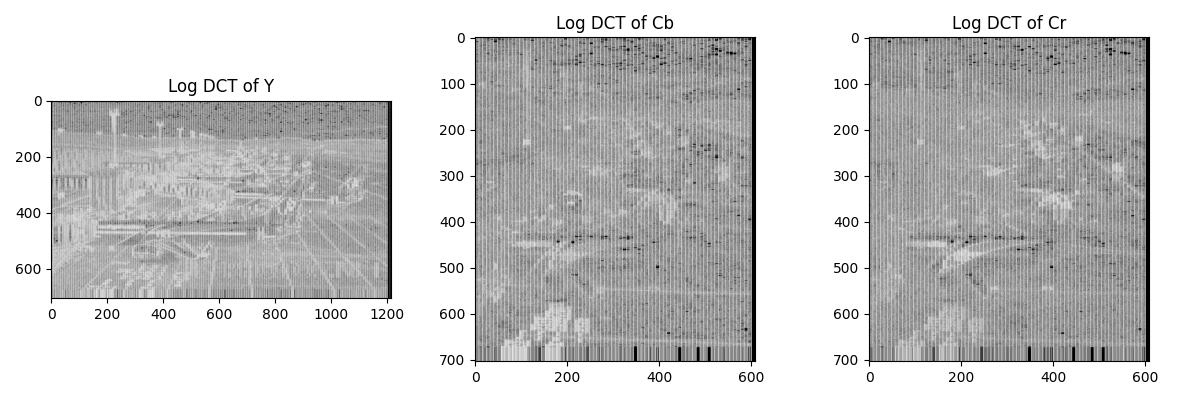
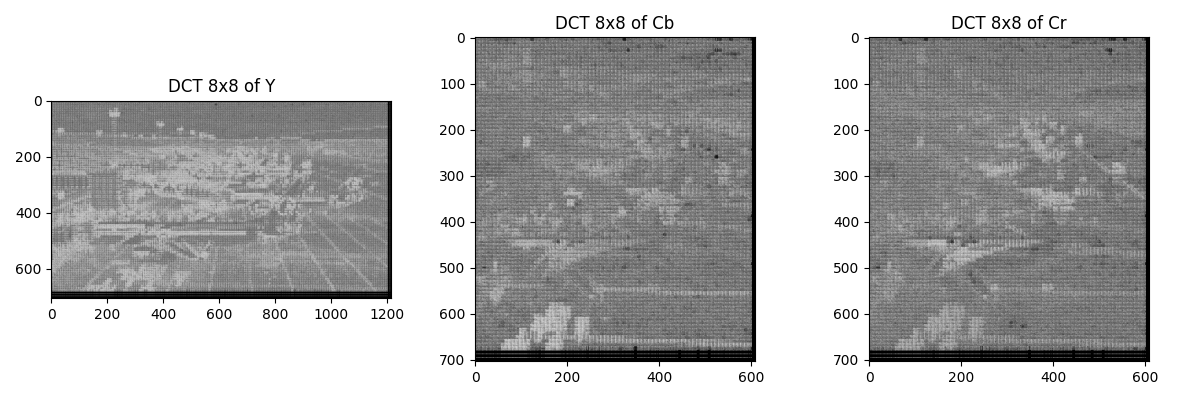
até o 8 tá tiudo

diff --git a/main.py b/main.py
@@ -471,7 +471,7 @@ def quantized_dct(Y_dct, Cb_dct, Cr_dct,quant_matrix_Y,quant_matrix_CbCr,step,fq
   plt.tight_layout()
   plt.show()
 
-  return Y_dct_log, Cb_dct_log, Cr_dct_log
+  return Y_dct, Cb_dct, Cr_dct
 
   #8.2. Crie também a função inversa.
 
@@ -480,11 +480,67 @@ def quantized_dct(Y_dct, Cb_dct, Cr_dct,quant_matrix_Y,quant_matrix_CbCr,step,fq
   qualidade. Visualize as imagens obtidas.
   '''
 
-def dequantize_block(quantized_block, quant_matrix): #AINDA ESTÁ MAL, TENHO DE FAZER UNS TRUQUES POR CAUSA DE ARREDONDAMENTOS
+def dequantize_block(quantized_block, fq,Lum_quant_matrix_std,Cro_quant_matrix_std,Crominancia = False,Luminancia = False):
 
-  dequantized_block = quantized_block * quant_matrix
+  Qs_Cro, Qs_Lum = adj_quant_matrix(fq,Lum_quant_matrix_std,Cro_quant_matrix_std)
+
+  if Crominancia==True:
+     dequantized_block = quantized_block * Qs_Cro
+  
+  elif Luminancia == True:
+     dequantized_block = quantized_block * Qs_Lum
+     
   return dequantized_block
 
+def dequantized_dct(Y_dct_quant, Cb_dct_quant, Cr_dct_quant,quant_matrix_Y,quant_matrix_CbCr,step, fq):
+
+    lines_Y, cols_Y = Y_dct_quant.shape
+    lines_Cb, cols_Cb = Cb_dct_quant.shape
+    lines_Cr, cols_Cr = Cr_dct_quant.shape
+
+    canal_Y_dct_desquantizado = np.zeros_like(Y_dct_quant)
+
+    canal_Cb_dct_desquantizado = np.zeros_like(Cb_dct_quant)
+
+    canal_Cr_dct_desquantizado = np.zeros_like(Cr_dct_quant)
+
+    # Process Y channel
+    for i in range(0, lines_Y, step):
+        for j in range(0, cols_Y, step):
+            quant_dct_block = Y_dct_quant[i:i+step, j:j+step]
+            canal_Y_dct_desquantizado[i:i+step, j:j+step] = dequantize_block(quant_dct_block, fq, quant_matrix_Y, quant_matrix_CbCr, Crominancia=False, Luminancia=True)
+
+    # Process Cb channel
+    for i in range(0, lines_Cb, step):
+        for j in range(0, cols_Cb, step):
+            quant_dct_block = Cb_dct_quant[i:i+step, j:j+step]
+            canal_Cb_dct_desquantizado[i:i+step, j:j+step] = dequantize_block(quant_dct_block, fq, quant_matrix_Y, quant_matrix_CbCr, Crominancia=True, Luminancia=False)
+
+    # Process Cr channel
+    for i in range(0, lines_Cr, step):
+        for j in range(0, cols_Cr, step):
+            quant_dct_block = Cr_dct_quant[i:i+step, j:j+step]
+            canal_Cr_dct_desquantizado[i:i+step, j:j+step] = dequantize_block(quant_dct_block, fq, quant_matrix_Y, quant_matrix_CbCr, Crominancia=True, Luminancia=False)
+
+    Y_dct_log = np.log(np.abs(canal_Y_dct_desquantizado) + 0.0001)
+    Cb_dct_log = np.log(np.abs(canal_Cb_dct_desquantizado) + 0.0001)
+    Cr_dct_log = np.log(np.abs(canal_Cr_dct_desquantizado) + 0.0001)
+
+    # Displaying dequantized images
+    plt.figure(figsize=(12, 4))
+    plt.subplot(1, 3, 1)
+    plt.imshow(Y_dct_log, cmap='gray')
+    plt.title('DCT dequant '+ str(fq) + ' ' + str(step) + 'x' + str(step) + ' of Y')
+    plt.subplot(1, 3, 2)
+    plt.imshow(Cb_dct_log, cmap='gray')
+    plt.title('DCT dequant '+ str(fq) + ' ' + str(step) + 'x' + str(step) + ' of Cb')
+    plt.subplot(1, 3, 3)
+    plt.imshow(Cr_dct_log, cmap='gray')
+    plt.title('DCT dequant '+ str(fq) + ' ' + str(step) + 'x' + str(step) + ' of Cr')
+    plt.tight_layout()
+    plt.show()
+
+    return canal_Y_dct_desquantizado, canal_Cb_dct_desquantizado, canal_Cr_dct_desquantizado
 
 def main():
     
@@ -838,6 +894,8 @@ def main():
     """
 
     Y_dct8, Cb_dct8, Cr_dct8=encoder(None,False,False,False,False,Y_d,Cb_d,Cr_d,None,None,False,True,8)
+    print("Y_dct8")
+    print(Y_dct8[0,0:7])
     Y_d, Cb_d, Cr_d=decoder(None,None,None,None,None,None,False,False,False,False, Y_dct8, Cb_dct8, Cr_dct8,None,False,True,8)
 
     print("\nValores originais Y_d Cb_d Cr_d, pós DCT com blocos 8x8:")
@@ -887,7 +945,9 @@ def main():
     ]
 
     Y_dct8_quant, Cb_dct8_quant, Cr_dct8_quant = encoder(None,False,False,False,False,Y_dct8, Cb_dct8, Cr_dct8,None,None,False,False,8,True,50,matriz_quantizacao_Y,matriz_quantizacao_CbCr)
-
+ 
+    Y_dct8, Cb_dct8, Cr_dct8 = dequantized_dct(Y_dct8_quant, Cb_dct8_quant, Cr_dct8_quant, matriz_quantizacao_Y,matriz_quantizacao_CbCr,8,50)
+    
     return
 
 if __name__ == "__main__":
